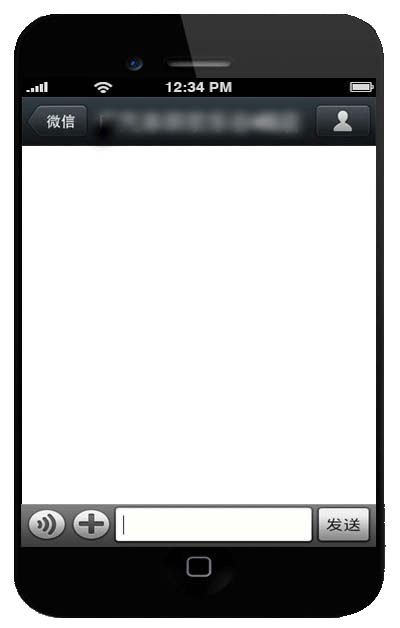
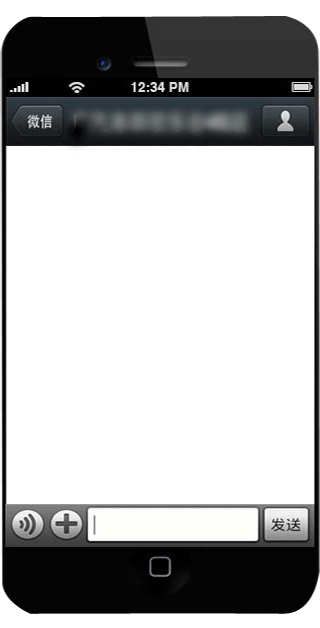
EG.wechat-调整groupsendreview界面样式——包括预览图尺寸、列表ul与table之间自适应切换

diff --git a/EG.Wechat/EG.WeChat.Web/Scripts/Views/Page/GroupSendReview.html b/EG.Wechat/EG.WeChat.Web/Scripts/Views/Page/GroupSendReview.html
@@ -6,6 +6,14 @@
                 font-family:   "ff-tisa-web-pro-1","ff-tisa-web-pro-2","Lucida Grande","Helvetica Neue",Helvetica,Arial,"Hiragino Sans GB","Hiragino Sans GB W3","Microsoft YaHei UI","Microsoft YaHei","WenQuanYi Micro Hei",sans-serif;
             }
 
+            hr {
+                margin-bottom: 1px;
+            }
+
+            .panel {
+                border-radius: 0;
+            }
+
             span.span_sym {
                 color: gray;
             }
@@ -23,7 +31,7 @@
                 list-style: none; /* 将默认的列表符号去掉 */
                 padding: 0; /* 将默认的内边距去掉 */
                 margin: 0; /* 将默认的外边距去掉 */
-                margin-left: 7px;
+                margin-left: 10px;
                 margin-right: 30px;
                 margin-top: 4px;
             }
@@ -33,7 +41,7 @@
                 }
         </style>
         <div class="row" style="margin-left: 10px; margin-right: 10px">
-            <div class="col-md-6 col-lg-7">
+            <div class="col-lg-8">
                 <div class="row">
 
                     <!--     <nav class="navbar navbar-default" role="navigation">
@@ -69,7 +77,23 @@
                                 </div>
                             </nav>-->
                     <style>
-                        @media (max-width: 1410px) {
+                        #div-gsvul {
+                            display: none;
+                        }
+
+                        #div-gsvtable {
+                            display: inline;
+                        }
+
+                        @media only screen and (min-width:780px) and (max-width:1030px) {
+                            #div-gsvul {
+                                display: none;
+                            }
+
+                            #div-gsvtable {
+                                display: inline;
+                            }
+
                             .table-responsive {
                                 width: 100%;
                                 margin-bottom: 15px;
@@ -94,47 +118,63 @@
                                     }
                         }
 
-
-
-
-                        .tg-div-tool > div {
-                            display: inline-block;
-                            /*border: 1px solid gray;*/
-                        }
-
-                            .tg-div-tool > div > * {
-                                text-align: center;
-                                display: block;
+                        @media only screen and (max-width:780px) {
+                            #div-gsvul {
+                                display: inline;
                             }
 
-                        .tg-div-tool > .div-lix-left {
-                            width: 4em;
-                            color: #428bca;
-                        }
+                            #div-gsvtable {
+                                display: none;
+                            }
 
-                        .tg-div-tool > .div-lix-info > *:nth-child(1) {
-                            font-size: 0.3em;
-                        }
+                            .tg-div-tool > div {
+                                display: inline-block;
+                            }
 
-                        .tg-div-tool > .div-lix-info > *:nth-child(2) {
-                            font-size: 2em;
-                        }
+                                .tg-div-tool > div > * {
+                                    text-align: center;
+                                    display: block;
+                                }
 
-                        .tg-div-tool > .div-lix-info > *:nth-child(3) {
+                            .tg-div-tool > .div-lix-left {
+                                width: 4em;
+                                color: #428bca;
+                            }
+
+                            .tg-div-tool > .div-lix-right {
+                                float: right;
+                            }
+
+                                .tg-div-tool > .div-lix-right > * {
+                                    font-size: 2em;
+                                }
+
+                            .tg-div-tool > .div-lix-info > *:nth-child(1) {
+                                font-size: 2em;
+                            }
+
+                            .tg-div-tool > .div-lix-info > *:nth-child(2) {
+                                font-size: 0.8em;
+                            }
+
+                            /*.tg-div-tool > .div-lix-info > *:nth-child(3) {
                             font-size: 0.8em;
-                        }
+                        }*/
 
+                            .tg-ul-table > li > a {
+                                text-decoration: none;
+                            }
 
+                                .tg-ul-table > li > a :hover {
+                                    background-color: #f2f2f2;
+                                }
 
-                        .tg-ul-table > li > a :hover {
-                            background-color: #f2f2f2;
-                        }
-
-                        .tg-ul-table > li b .b-imp {
-                            font-size: 2em;
+                            .tg-ul-table > li b .b-imp {
+                                font-size: 2em;
+                            }
                         }
                     </style>
-                    <div>
+                    <div id="div-gsvul">
                         <ul class="tg-ul-table">
                             <li ng-repeat="GSMessage in GSMessages|filterSubArray:curPageIndex">
                                 <a href="javascript:void(0);" ng-click="ChangeCur(GSMessage)">
@@ -155,15 +195,18 @@
                                         &nbsp;&nbsp;
                                         <div class="div-lix-info">
                                             <div>
-                                                <span>發送對象：</span>
-                                            </div>
-                                            <div>
                                                 <span ng-if="GSMessage.SType==1" class="span_sym span_scount">全部用戶</span>
                                                 <span ng-if="GSMessage.SType!=1" class="span_sym span_scount" name="{{GSMessage.STargetCount}}">{{GSMessage.STargetName}}</span>
                                             </div>
                                             <div>
                                                 <span>{{GSMessage.UserID}}</span>
                                                 <span>{{GSMessage.MTimeX}}</span>
+                                            </div>
+                                        </div>
+                                        <div class="div-lix-right">
+                                            <div>
+                                                <span ng-if="GSMessage.SState!=1" class="label label-md label-warning">{{GSMessage.SStateX}}</span>
+                                                <span ng-if="GSMessage.SState==1" class="label label-md label-default">{{GSMessage.SStateX}}</span>
                                             </div>
                                         </div>
 
@@ -174,8 +217,8 @@
                             </li>
                         </ul>
                     </div>
-                    <div class="table-responsive">
-                        <table class="table table-striped table-bordered table-hover no-margin-bottom no-border-top">
+                    <div id="div-gsvtable" class="table-responsive">
+                        <table class="table table-striped table-bordered table-hover no-margin-bottom">
                             <thead>
                                 <tr>
                                     <th>消息編號</th>
@@ -218,7 +261,7 @@
                             </tbody>
                         </table>
                     </div>
-                    <div class="row" style="margin-left: 10px;">
+                    <div class="row" style="margin-left: 1px;">
                         <ul class="pagination" style="margin-top: 0px; margin-bottom: 0px;">
                             <li><a href="javascript:void(0);" ng-click="ChangeTbPage(1)">&laquo;</a></li>
                             <li ng-repeat="i in pageCount"><a href="javascript:void(0);" ng-click="ChangeTbPage(i)">{{i}}</a></li>
@@ -228,11 +271,11 @@
 
                 </div>
             </div>
-            <div class="col-md-6 col-lg-5">
+            <div class="col-lg-4">
                 <div class="row">
-                    <div class="panel panel-default" style="margin-left: 20px; margin-right: 20px">
+                    <div class="panel panel-default" style="width: 345px">
                         <div class="panel-body">
-                            <div class="row" style="margin-left: 15px; margin-bottom: 25px">
+                            <div class="row">
                                 <ul class="tab_navs">
                                     <li data-type="1" data-tab=".js_textArea" data-tooltip="文字">
                                         <a href="javascript:void(0);">
@@ -269,24 +312,24 @@
                             <hr style="filter: alpha(opacity=100,finishopacity=0,style=1); width: 100%;" />
                             <div class="row" id="fra">
                                 <div style="position: relative; color: #000; width: auto; height: 650px">
-                                    <div style="position: absolute; z-index: 1; left: 10px; top: 10px; background: url('/Images/common/phone.jpg'); width: 400px; height: 628px;">
+                                    <div style="position: absolute; z-index: 1; left: 10px; top: 10px; background: url('/Images/common/phone.png'); width: 320px; height: 628px;">
                                     </div>
-                                    <div style="position: absolute; z-index: 2; left: 32px; top: 148px; overflow: auto; background: #ffffff; width: 354px; height: 358px;">
+                                    <div style="position: absolute; z-index: 2; left: 17px; top: 158px; overflow: auto; background: #ffffff; width: 300px; height: 358px;">
 
-                                        <div ng-show="CurCType=='text'" class="row well" style="width: 330px; margin-top: 5px; margin-left: 10px">
+                                        <div ng-show="CurCType=='text'" class="row well" style="width: 250px; margin-top: 5px; margin-left: 10px">
                                             <img src="/Images/common/user.jpg" style="width: 30px; height: 30px" />
                                             <textarea ng-model="text" style="margin-left: 5px; margin-top: 5px; width: 96%" class="form-control" rows="7" disabled></textarea>
                                         </div>
-                                        <div ng-controller="PictureListCtrl" ng-show="CurCType=='image'" class="row well" style="width: 330px; margin-top: 5px; margin-left: 10px">
+                                        <div ng-controller="PictureListCtrl" ng-show="CurCType=='image'" class="row well" style="width: 285px; margin-top: 5px; margin-left: 10px">
                                             <wxpicturedisplay></wxpicturedisplay>
                                         </div>
-                                        <div ng-controller="VoiceListCtrl" ng-show="CurCType=='voice'" class="row" style="width: 310px; margin-top: 5px; margin-left: 10px;">
+                                        <div ng-controller="VoiceListCtrl" ng-show="CurCType=='voice'" class="row" style="width: 285px; margin-top: 5px; margin-left: 10px;">
                                             <wxvoiceplay></wxvoiceplay>
                                         </div>
-                                        <div ng-controller="VideoListCtrl" ng-show="CurCType=='video'" class="row" style="width: 310px; margin-top: 5px; margin-left: 10px;">
+                                        <div ng-controller="VideoListCtrl" ng-show="CurCType=='video'" class="row" style="width: 285px; margin-top: 5px; margin-left: 10px;">
                                             <wxvideoplay></wxvideoplay>
                                         </div>
-                                        <div ng-controller="ArticleListCtrl" ng-show="CurCType=='mpnews'" class="row" style="width: 310px; margin-top: 5px; margin-left: 10px">
+                                        <div ng-controller="ArticleListCtrl" ng-show="CurCType=='mpnews'" class="row" style="width: 285px; margin-top: 5px; margin-left: 10px">
                                             <wxarticledisplay></wxarticledisplay>
                                         </div>
                                     </div>
@@ -297,7 +340,7 @@
                             <button ng-click="displayBtn=1" style="width: 200px; margin-left: 10px" class="btn btn-primary btn-sm">審核通過并群發消息</button>
                             <button ng-if="displayBtn==1" id="ui_btnLoading" data-loading-text="發送中，請稍後……" type="button" class="btn btn-success btn-sm" ng-click="SendGroupMessage()">確認</button>
                             <button ng-if="displayBtn==1" ng-click="CancelSend()" class="btn btn-danger btn-sm">取消</button>
-                            <input style="width: 200px; float: right; margin-right: 20px" type="text" class="form-control" value="您本月還能群發0條信息">
+                           <!-- <input style="width: 200px; float: right; margin-right: 20px" type="text" class="form-control" value="您本月還能群發0條信息">-->
                         </div>
                     </div>
                 </div>
